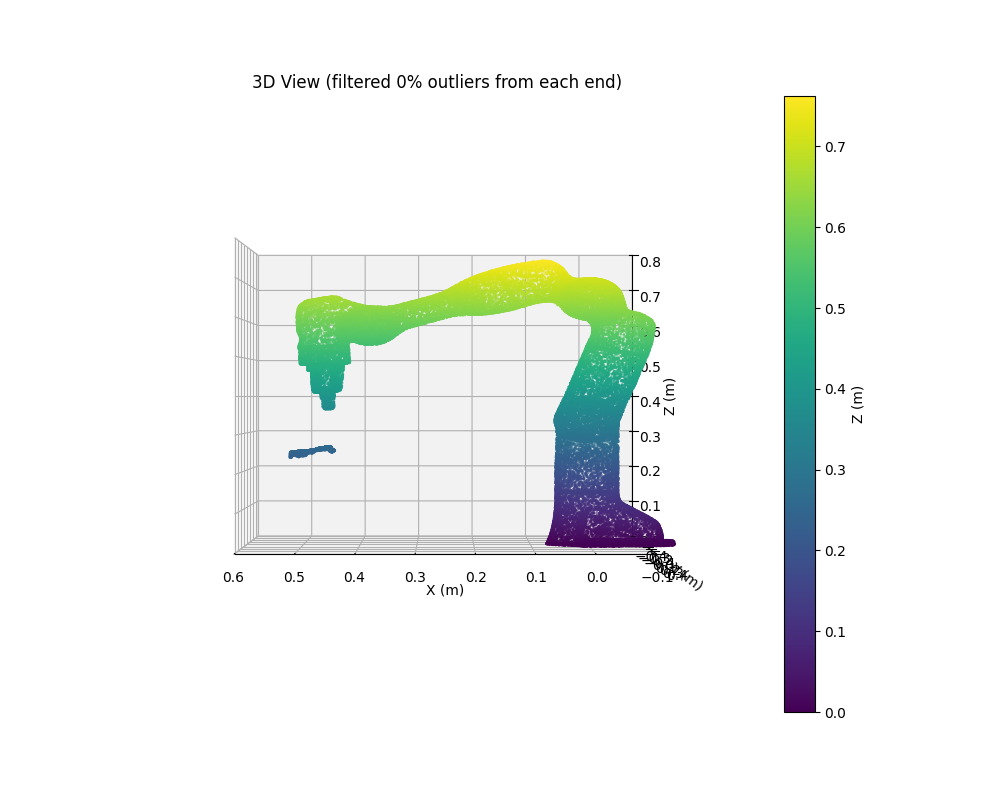
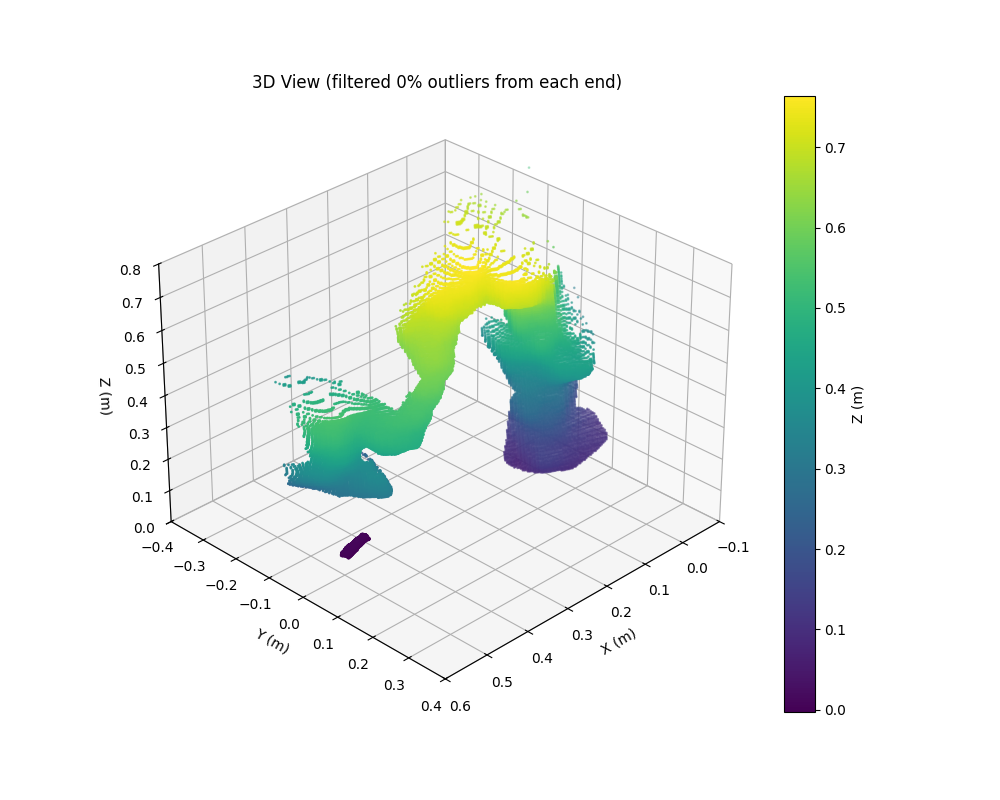
Can now recreate any trajectory in gazebo

diff --git a/src/vision_processing/diffusion_model_train/Data_preprocess.py b/src/vision_processing/diffusion_model_train/Data_preprocess.py
@@ -877,82 +877,82 @@ def update_json_merged_pcd():
 
 def main():
 
-    # print("="*80)
-    # print("Step 1 : Convertir les PNG static en JPG pour faire la segmentation et le tracking avec SAM 2")
-    # print("="*80)
-    # start_time = time.time()
-    # png_datas = load_png_datas_static()
-    # print(png_datas)
-    # for png_path in png_datas:
-    #     directory_path = os.path.dirname(png_path)
-    #     filename = os.path.basename(png_path)
-    #     name_no_ext = os.path.splitext(filename)[0]
+    print("="*80)
+    print("Step 1 : Convertir les PNG static en JPG pour faire la segmentation et le tracking avec SAM 2")
+    print("="*80)
+    start_time = time.time()
+    png_datas = load_png_datas_static()
+    print(png_datas)
+    for png_path in png_datas:
+        directory_path = os.path.dirname(png_path)
+        filename = os.path.basename(png_path)
+        name_no_ext = os.path.splitext(filename)[0]
         
-    #     directory_path = directory_path.replace("Trajectories_record", "Trajectories_preprocess")
+        directory_path = directory_path.replace("Trajectories_record", "Trajectories_preprocess")
         
-    #     try:
-    #         # On extrait le numéro "11" depuis "static_rgb_step_11"
-    #         step_number = int(name_no_ext.split('_')[-1])
+        try:
+            # On extrait le numéro "11" depuis "static_rgb_step_11"
+            step_number = int(name_no_ext.split('_')[-1])
             
-    #         # On définit le nom CIBLE qu'on veut obtenir : "0011.jpg"
-    #         target_name = f"{step_number:04d}.jpg"
-    #         target_path = os.path.join(directory_path, target_name)
+            # On définit le nom CIBLE qu'on veut obtenir : "0011.jpg"
+            target_name = f"{step_number:04d}.jpg"
+            target_path = os.path.join(directory_path, target_name)
             
-    #         # LE TEST ULTIME : Si le résultat existe déjà, on passe !
-    #         if os.path.exists(target_path):
-    #             print(f"Le fichier {target_name} existe déjà. Skip.")
-    #             continue
+            # LE TEST ULTIME : Si le résultat existe déjà, on passe !
+            if os.path.exists(target_path):
+                print(f"Le fichier {target_name} existe déjà. Skip.")
+                continue
 
-    #         # Sinon, on lance la conversion
-    #         print(f"Création de {target_name} à partir de {filename}...")
-    #         jpg_path = os.path.join(directory_path, target_name)
-    #         print(jpg_path)
-    #         png_to_jpg_static(png_path, jpg_path)
-    #     except Exception as e:
-    #         print(f"Erreur sur {png_path}: {e}")
-    # end_time = time.time()
-    # print(f"Temps total pour transformer les PNG static en JPG : {end_time - start_time}")
+            # Sinon, on lance la conversion
+            print(f"Création de {target_name} à partir de {filename}...")
+            jpg_path = os.path.join(directory_path, target_name)
+            print(jpg_path)
+            png_to_jpg_static(png_path, jpg_path)
+        except Exception as e:
+            print(f"Erreur sur {png_path}: {e}")
+    end_time = time.time()
+    print(f"Temps total pour transformer les PNG static en JPG : {end_time - start_time}")
     
     
-    # print("="*80)
-    # print("Step 2 : Ajouter les fichiers json dans les nouveaux dossiers")
-    # print("="*80)
-    # start_time = time.time()
-    # mappings = get_json_paths_map()
-    # for src, dest in mappings:
-    #     print(f"Source: {os.path.basename(src)} -> Dest: {dest}")
-    #     with open(src, 'r') as f:
-    #         data = json.load(f)
-    #     with open(dest, 'w') as f:
-    #         json.dump(data, f)
+    print("="*80)
+    print("Step 2 : Ajouter les fichiers json dans les nouveaux dossiers")
+    print("="*80)
+    start_time = time.time()
+    mappings = get_json_paths_map()
+    for src, dest in mappings:
+        print(f"Source: {os.path.basename(src)} -> Dest: {dest}")
+        with open(src, 'r') as f:
+            data = json.load(f)
+        with open(dest, 'w') as f:
+            json.dump(data, f)
         
-    # end_time = time.time()
-    # print(f"Temps total pour ajouter les fichiers json dans les nouveaux dossiers : {end_time - start_time}")
+    end_time = time.time()
+    print(f"Temps total pour ajouter les fichiers json dans les nouveaux dossiers : {end_time - start_time}")
     
-    # print("="*80)
-    # print("Step 3 : Segmenter les images avec SAM 2 et creer les nuages de points du robot segmenté et de la nourriture segmentée")
-    # print("="*80)
-    # start_time = time.time()
+    print("="*80)
+    print("Step 3 : Segmenter les images avec SAM 2 et creer les nuages de points du robot segmenté et de la nourriture segmentée")
+    print("="*80)
+    start_time = time.time()
     
-    # try:
-    #     # Lancement de la fonction principale
-    #     segment_robot_and_create_pcd()
+    try:
+        # Lancement de la fonction principale
+        segment_robot_and_create_pcd()
         
-    # except KeyboardInterrupt:
-    #     print("\n🛑 Interruption par l'utilisateur.")
+    except KeyboardInterrupt:
+        print("\n🛑 Interruption par l'utilisateur.")
         
-    # end_time = time.time()
-    # print(f"Temps total pour segmenter les nuages de points : {end_time - start_time}")
+    end_time = time.time()
+    print(f"Temps total pour segmenter les nuages de points : {end_time - start_time}")
     
 
-    # print("="*80)
-    # print("Step 4 : Segmenter la nourriture dans l'assiette et créer le nuage de point correspondant.")
-    # print("="*80)
-    # force_gpu_clear()
-    # start_time = time.time()
-    # segment_food_init_step()
-    # end_time = time.time()
-    # print(f"Temps total pour segmenter la nourriture dans l'assiette et créer le nuage de point correspondant : {end_time - start_time}")
+    print("="*80)
+    print("Step 4 : Segmenter la nourriture dans l'assiette et créer le nuage de point correspondant.")
+    print("="*80)
+    force_gpu_clear()
+    start_time = time.time()
+    segment_food_init_step()
+    end_time = time.time()
+    print(f"Temps total pour segmenter la nourriture dans l'assiette et créer le nuage de point correspondant : {end_time - start_time}")
     
     print("="*80)
     print("Step 5 : Créer les nuages de points merge du robot segmenter et de la nourriture segmentée.")

diff --git a/scripts/circle_trajectory.py b/scripts/circle_trajectory.py
@@ -6,11 +6,14 @@ Faire un cercle avec l'effecteur du Franka Panda dans Gazebo
 """
 
 import rospy
+import rospkg
 import moveit_commander
 import sys
 from geometry_msgs.msg import Pose
 import numpy as np
 from scipy.spatial.transform import Rotation as R
+import json
+import os
 
 def create_pose_with_orientation(x, y, z, roll_deg, pitch_deg, yaw_deg):
     """Créer une pose avec position et orientation en angles Euler"""
@@ -30,6 +33,19 @@ def create_pose_with_orientation(x, y, z, roll_deg, pitch_deg, yaw_deg):
     
     return pose
 
+def create_pose_with_quaternion(xyz, quat):
+    """Créer une pose avec position et orientation en quaternions"""
+    pose = Pose()
+    pose.position.x = xyz[0]
+    pose.position.y = xyz[1]
+    pose.position.z = xyz[2]
+    
+    pose.orientation.x = quat[0]
+    pose.orientation.y = quat[1]
+    pose.orientation.z = quat[2]
+    pose.orientation.w = quat[3]
+    
+    return pose
 def move_through_waypoints(move_group, waypoints, speed=0.1):
     """Exécute une trajectoire cartésienne"""
     rospy.loginfo(f"Planification à travers {len(waypoints)} waypoints...")
@@ -133,8 +149,8 @@ def main():
     center_x = current_pose.position.x
     center_y = current_pose.position.y
     center_z = current_pose.position.z
-    radius = 0.05  # 5 cm de rayon
-    n_points = 16  # 16 points
+    radius = 0.2  # 5 cm de rayon
+    n_points = 200  # 16 points
     
     # Orientation fixe: effecteur vers le bas
     # Pour Gazebo, roll=-180° fait pointer l'effecteur vers le bas
@@ -149,19 +165,42 @@ def main():
     waypoints = []
     angles = np.linspace(0, 2*np.pi, n_points, endpoint=False)
     
-    for angle in angles:
-        x = center_x + radius * np.cos(angle)
-        y = center_y + radius * np.sin(angle)
-        z = center_z
+    package_path = rospkg.RosPack().get_path('vision_processing')
+    step = 10
+    json_path = os.path.join(package_path, 'datas', 'Trajectories_preprocess', f'Trajectory_{step}', f'trajectory_{step}.json')
+    with open(json_path, 'r') as f:
+        datas = json.load(f)
+        states = datas['states']
+        for state in states:
+            end_effector_position = state['end_effector_position']
+            end_effector_orientation = state['end_effector_orientation']
+            pose = create_pose_with_quaternion(end_effector_position, end_effector_orientation)
+            if not waypoints:
+                waypoints.append(pose)
+            else:
+                last_pose = waypoints[-1]
+                import math
+                dist = math.sqrt(
+                    (pose.position.x - last_pose.position.x)**2 +
+                    (pose.position.y - last_pose.position.y)**2 +
+                    (pose.position.z - last_pose.position.z)**2
+                )
+                if dist >= 1e-5:
+                    waypoints.append(pose)
+            
+    # for angle in angles:
+    #     x = center_x + radius * np.cos(angle)
+    #     y = center_y + radius * np.sin(angle)
+    #     z = center_z
         
-        # Créer la pose avec orientation contrôlée
-        pose = create_pose_with_orientation(
-            x, y, z,
-            roll_deg=target_roll,
-            pitch_deg=target_pitch,
-            yaw_deg=target_yaw
-        )
-        waypoints.append(pose)
+    #     # Créer la pose avec orientation contrôlée
+    #     pose = create_pose_with_orientation(
+    #         x, y, z,
+    #         roll_deg=target_roll,
+    #         pitch_deg=target_pitch,
+    #         yaw_deg=target_yaw
+    #     )
+    #     waypoints.append(pose)
     
     # Fermer le cercle
     waypoints.append(waypoints[0])

diff --git a/src/vision_processing/diffusion_model_train/NPY_visualizer.py b/src/vision_processing/diffusion_model_train/NPY_visualizer.py
@@ -32,7 +32,7 @@ def quick_3d_view(depth_image_path, filter_percentile=0):
     ax.set_xlim([-0.1, 0.6])
     ax.set_ylim([-0.4, 0.4])
     ax.set_zlim([0, 0.8])
-    ax.view_init(elev=0, azim=90) # Set view angle (elevation, azimuth)
+    ax.view_init(elev=30, azim=45) # Set view angle (elevation, azimuth)
 
     ax.set_title(f'3D View (filtered {filter_percentile}% outliers from each end)')
     plt.colorbar(scatter, label='Z (m)')
@@ -45,7 +45,7 @@ def main():
 
     # --- Build both file paths dynamically ---
     base_path = os.path.join(package_path, 'datas')
-    depth_image_path = f"{base_path}/Trajectories_preprocess/Trajectory_17/Merged_urdf_Trajectory_17/Merged_urdf_0059.npy"
+    depth_image_path = f"{base_path}/Trajectories_preprocess/Trajectory_17/Merged_pcd_Trajectory_17/Merged_0059.npy"
     # json_path = f"{base_path}/Trajectories_preprocess/Trajectory_9/trajectory_9.json"
     
     quick_3d_view(depth_image_path)
